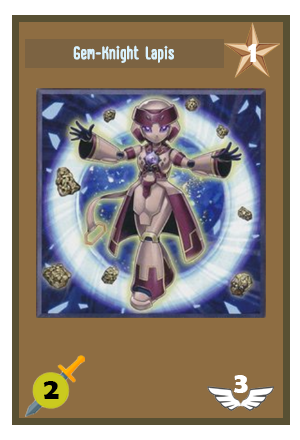
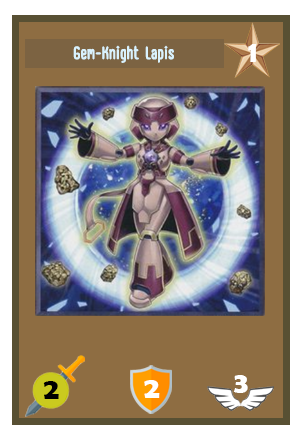
Add shield and heal attribute

Changed region(s): [[0.09, 0.1773, 0.9, 0.7386], [0.42, 0.8273, 0.6, 0.9455]]

diff --git a/src/Classes/CardsCollection.java b/src/Classes/CardsCollection.java
@@ -39,18 +39,18 @@ public class CardsCollection {
         cardsCollection.add(new FireTribe("Fire_Princess", 1, 20, 170,4,4));
 
         //Rock
-        cardsCollection.add(new RockTribe("Felix_King_Of_Battlefield",1,20,200,4,3));
-        cardsCollection.add(new RockTribe("Gem_Knight_Lapis",1,20,190,4,3));
-        cardsCollection.add(new RockTribe("Gem_Knight_Sardontyx",1,30,180,4,3));
-        cardsCollection.add(new RockTribe("Spherous_Lady",1,10,180,4,5));
-        cardsCollection.add(new RockTribe("Winged_Sphinx",1,20,170,4,3));
+        cardsCollection.add(new RockTribe("Felix_King_Of_Battlefield",1,20,200,4,3, 20));
+        cardsCollection.add(new RockTribe("Gem_Knight_Lapis",1,20,190,4,3,20));
+        cardsCollection.add(new RockTribe("Gem_Knight_Sardontyx",1,30,180,4,3,10));
+        cardsCollection.add(new RockTribe("Spherous_Lady",1,10,180,4,5,20));
+        cardsCollection.add(new RockTribe("Winged_Sphinx",1,20,170,4,3,10));
 
         //Water
-        cardsCollection.add(new WaterTribe("Divine_Dragon",1,20,150,4,3));
-        cardsCollection.add(new WaterTribe("Ice_Barrier",1,40,110,4,2));
-        cardsCollection.add(new WaterTribe("Lady_Of_The_Lake",1,20,160,4,3));
-        cardsCollection.add(new WaterTribe("Prince_Of_Ice",1,30,100,4,2));
-        cardsCollection.add(new WaterTribe("The_Mermail",1,20,130,4,4));
+        cardsCollection.add(new WaterTribe("Divine_Dragon",1,20,150,4,3,20));
+        cardsCollection.add(new WaterTribe("Ice_Barrier",1,40,110,4,2,30));
+        cardsCollection.add(new WaterTribe("Lady_Of_The_Lake",1,20,160,4,3,30));
+        cardsCollection.add(new WaterTribe("Prince_Of_Ice",1,30,100,4,2,40));
+        cardsCollection.add(new WaterTribe("The_Mermail",1,20,130,4,4,20));
 
         //--------------------------------------LEVEL 2----------------------------------------------------
         //Fire
@@ -63,22 +63,22 @@ public class CardsCollection {
         cardsCollection.add(new FireTribe("Laval_Judgment_Lord", 2, 60, 260,14,2));
 
         //Rock
-        cardsCollection.add(new RockTribe("Felix_King_Of_Battlefield",2,30,270,11,4));
-        cardsCollection.add(new RockTribe("Gem_Knight_Lapis",2,30,230,11,4));
-        cardsCollection.add(new RockTribe("Gem_Knight_Sardontyx",2,40,230,12,3));
-        cardsCollection.add(new RockTribe("Spherous_Lady",2,20,210,11,5));
-        cardsCollection.add(new RockTribe("Winged_Sphinx",2,30,220,10,3));
-        cardsCollection.add(new RockTribe("U.A._Blockbacker",2,50,300,15,3));
-        cardsCollection.add(new RockTribe("Vision_Hero_Gravito",2,30,310,14,5));
+        cardsCollection.add(new RockTribe("Felix_King_Of_Battlefield",2,30,270,11,4,20));
+        cardsCollection.add(new RockTribe("Gem_Knight_Lapis",2,30,230,11,4,20));
+        cardsCollection.add(new RockTribe("Gem_Knight_Sardontyx",2,40,230,12,3,20));
+        cardsCollection.add(new RockTribe("Spherous_Lady",2,20,210,11,6,20));
+        cardsCollection.add(new RockTribe("Winged_Sphinx",2,30,220,10,3,20));
+        cardsCollection.add(new RockTribe("U.A._Blockbacker",2,50,300,15,3,40));
+        cardsCollection.add(new RockTribe("Vision_Hero_Gravito",2,30,310,14,5,30));
 
         //Water
-        cardsCollection.add(new WaterTribe("Divine_Dragon",2,30,170,12,3));
-        cardsCollection.add(new WaterTribe("Ice_Barrier",2,50,140,11,3));
-        cardsCollection.add(new WaterTribe("Lady_Of_The_Lake",2,30,180,12,4));
-        cardsCollection.add(new WaterTribe("Prince_Of_Ice",2,40,150,13,3));
-        cardsCollection.add(new WaterTribe("The_Mermail",2,30,160,11,5));
-        cardsCollection.add(new WaterTribe("Ice_Master",2,40,190,15,3));
-        cardsCollection.add(new WaterTribe("Megician_Of_Prophecy",2,40,180,15,3));
+        cardsCollection.add(new WaterTribe("Divine_Dragon",2,30,170,12,3,30));
+        cardsCollection.add(new WaterTribe("Ice_Barrier",2,50,140,11,3,40));
+        cardsCollection.add(new WaterTribe("Lady_Of_The_Lake",2,30,180,12,4,40));
+        cardsCollection.add(new WaterTribe("Prince_Of_Ice",2,40,150,13,3,40));
+        cardsCollection.add(new WaterTribe("The_Mermail",2,30,160,11,5,30));
+        cardsCollection.add(new WaterTribe("Ice_Master",2,40,190,15,3,60));
+        cardsCollection.add(new WaterTribe("Megician_Of_Prophecy",2,40,180,15,3,70));
 
         //--------------------------------------LEVEL 3----------------------------------------------------
         //Fire
@@ -91,22 +91,22 @@ public class CardsCollection {
         cardsCollection.add(new FireTribe("Laval_Judgment_Lord", 3, 80, 310,25,2));
 
         //Rock
-        cardsCollection.add(new RockTribe("Felix_King_Of_Battlefield",3,30,330,21,4));
-        cardsCollection.add(new RockTribe("Gem_Knight_Lapis",3,30,290,19,4));
-        cardsCollection.add(new RockTribe("Gem_Knight_Sardontyx",3,50,280,20,3));
-        cardsCollection.add(new RockTribe("Spherous_Lady",3,20,260,18,5));
-        cardsCollection.add(new RockTribe("Winged_Sphinx",3,40,260,20,4));
-        cardsCollection.add(new RockTribe("U.A._Blockbacker",3,50,380,26,5));
-        cardsCollection.add(new RockTribe("Vision_Hero_Gravito",3,30,400,26,6));
+        cardsCollection.add(new RockTribe("Felix_King_Of_Battlefield",3,30,330,21,4,30));
+        cardsCollection.add(new RockTribe("Gem_Knight_Lapis",3,30,290,19,4,30));
+        cardsCollection.add(new RockTribe("Gem_Knight_Sardontyx",3,50,280,20,3,30));
+        cardsCollection.add(new RockTribe("Spherous_Lady",3,20,260,18,7,20));
+        cardsCollection.add(new RockTribe("Winged_Sphinx",3,40,260,20,4,20));
+        cardsCollection.add(new RockTribe("U.A._Blockbacker",3,50,380,26,5,50));
+        cardsCollection.add(new RockTribe("Vision_Hero_Gravito",3,30,400,26,6,50));
 
         //Water
-        cardsCollection.add(new WaterTribe("Divine_Dragon",3,30,220,23,4));
-        cardsCollection.add(new WaterTribe("Ice_Barrier",3,50,190,22,3));
-        cardsCollection.add(new WaterTribe("Lady_Of_The_Lake",3,30,250,23,5));
-        cardsCollection.add(new WaterTribe("Prince_Of_Ice",3,50,200,23,4));
-        cardsCollection.add(new WaterTribe("The_Mermail",3,30,220,21,6));
-        cardsCollection.add(new WaterTribe("Ice_Master",3,60,260,28,4));
-        cardsCollection.add(new WaterTribe("Megician_Of_Prophecy",3,50,260,28,4));
+        cardsCollection.add(new WaterTribe("Divine_Dragon",3,30,220,23,4,40));
+        cardsCollection.add(new WaterTribe("Ice_Barrier",3,50,190,22,3,40));
+        cardsCollection.add(new WaterTribe("Lady_Of_The_Lake",3,30,250,23,5,40));
+        cardsCollection.add(new WaterTribe("Prince_Of_Ice",3,50,200,23,4,50));
+        cardsCollection.add(new WaterTribe("The_Mermail",3,30,220,21,6,40));
+        cardsCollection.add(new WaterTribe("Ice_Master",3,60,260,28,4,80));
+        cardsCollection.add(new WaterTribe("Megician_Of_Prophecy",3,50,260,28,4,80));
 
     }
 

diff --git a/src/Classes/RockTribe.java b/src/Classes/RockTribe.java
@@ -4,8 +4,9 @@ public class RockTribe extends Card{
     private int shield;
 
     //Constructor
-    public RockTribe(String name, int level, int damage, int hp, int cost, int speed) {
+    public RockTribe(String name, int level, int damage, int hp, int cost, int speed, int shield) {
         super(name,"rock", level, damage, hp, cost, speed);
+        setShield(shield);
     }
 
     //Getters

diff --git a/src/Classes/WaterTribe.java b/src/Classes/WaterTribe.java
@@ -4,8 +4,9 @@ public class WaterTribe extends Card {
     private int heal;
 
     //Constructor
-    public WaterTribe(String name, int level, int damage, int hp, int cost, int speed) {
+    public WaterTribe(String name, int level, int damage, int hp, int cost, int speed,int heal) {
         super(name,"water", level, damage, hp, cost, speed);
+        setHeal(heal);
     }
 
     //Getters
